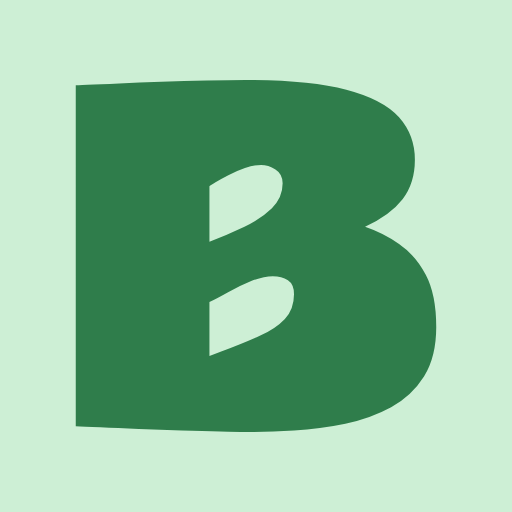
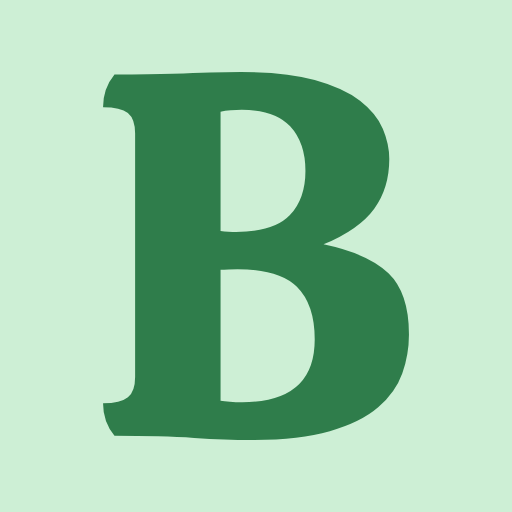
logomark

Changed region(s): [[0.125, 0.125, 0.875, 0.875], [0.4062, 0.5, 0.625, 0.8125], [0.4062, 0.1875, 0.625, 0.4688]]

diff --git a/src/lib/html.js b/src/lib/html.js
@@ -15,7 +15,7 @@ export function verseText(v) {
 }
 export const trLine = (v) => (site.redLetter && v.jesus ? `${TR} · <span class="rl-key">Words of Jesus in red</span>` : TR);
 
-export const MARK = `<svg class="brand__mark" viewBox="0 0 64 64" aria-hidden="true"><path d="M9.47 10.67Q9.47 10.67 10.96 10.60Q12.46 10.53 14.89 10.43Q17.33 10.32 20.19 10.23Q23.05 10.13 25.83 10.07Q28.62 10.00 30.73 10.00Q38.67 10.00 43.29 11.22Q47.90 12.43 49.88 14.67Q51.86 16.90 51.86 19.98Q51.86 22.92 50.32 24.91Q48.78 26.90 45.63 28.35Q47.85 29.10 49.88 30.49Q51.91 31.88 53.22 34.35Q54.53 36.83 54.53 40.89Q54.53 44.64 53.00 47.07Q51.46 49.51 48.89 50.91Q46.32 52.31 43.17 52.97Q40.01 53.63 36.75 53.81Q33.48 54.00 30.60 54.00Q29.66 54.00 27.53 53.95Q25.41 53.89 22.72 53.81Q20.03 53.73 17.36 53.63Q14.68 53.52 12.55 53.42Q10.43 53.33 9.47 53.28ZM26.18 30.22Q28.46 29.34 30.56 28.34Q32.66 27.33 33.99 26.02Q35.33 24.71 35.33 22.92Q35.33 21.74 34.43 21.18Q33.54 20.62 32.63 20.62Q31.72 20.62 30.62 21.01Q29.53 21.39 28.54 21.90Q27.55 22.41 26.89 22.81Q26.24 23.21 26.18 23.27ZM36.75 36.77Q36.75 35.54 35.99 35.04Q35.22 34.53 34.10 34.53Q32.90 34.53 31.40 35.14Q29.90 35.76 28.51 36.53Q27.12 37.31 26.18 37.76V44.50L27.57 43.97Q30.36 42.93 32.41 42.00Q34.47 41.08 35.61 39.86Q36.75 38.65 36.75 36.77Z" fill="currentColor"/></svg>`;
+export const MARK = `<svg class="brand__mark" viewBox="0 0 64 64" aria-hidden="true"><path d="M31.32 55.00Q28.28 55.00 24.27 54.74Q20.26 54.48 14.31 54.48Q12.88 52.74 12.88 50.41Q15.08 50.41 15.99 49.66Q16.89 48.92 16.89 47.11V16.70Q16.89 14.89 15.99 14.14Q15.08 13.40 12.88 13.40Q12.88 11.07 14.31 9.32Q18.90 9.32 21.62 9.23Q24.33 9.13 26.24 9.06Q28.15 9.00 30.09 9.00Q35.72 9.00 39.34 10.00Q42.97 11.01 45.00 12.59Q47.04 14.18 47.85 16.08Q48.66 17.99 48.66 19.87Q48.66 23.49 46.78 26.08Q44.91 28.67 40.44 30.54Q46.01 31.71 48.56 34.17Q51.12 36.63 51.12 41.80Q51.12 44.32 50.28 46.69Q49.44 49.05 47.27 50.92Q45.10 52.80 41.22 53.90Q37.34 55.00 31.32 55.00ZM29.51 28.99Q34.23 28.99 36.21 26.92Q38.18 24.85 38.18 21.36Q38.18 17.86 36.27 15.79Q34.36 13.72 30.22 13.72Q29.57 13.72 28.83 13.79Q28.09 13.85 27.57 13.98V28.86Q28.02 28.93 28.54 28.96Q29.06 28.99 29.51 28.99ZM30.29 50.28Q39.34 50.28 39.34 42.45Q39.34 38.05 37.11 35.85Q34.88 33.65 29.70 33.65Q29.19 33.65 28.57 33.68Q27.96 33.71 27.57 33.71V50.08Q28.02 50.15 28.73 50.21Q29.44 50.28 30.29 50.28Z" fill="currentColor"/></svg>`;
 
 const ARROW = `<svg class="arrow" width="18" height="18" viewBox="0 0 24 24" aria-hidden="true" fill="none" stroke="currentColor" stroke-width="2" stroke-linecap="round" stroke-linejoin="round"><path d="M5 12h14M13 6l6 6-6 6"/></svg>`;
 
@@ -70,8 +70,8 @@ const menuItems = [['/search/', 'Search'], ['/topics/', 'Topics'], ['/today/', '
 <meta name="twitter:description" content="${esc(page.description)}">
 <meta name="twitter:image" content="${site.url}${site.ogImage}">
 <meta name="twitter:image:alt" content="${esc(site.name)}: ${esc(site.tagline)}">
-<link rel="icon" href="/favicon.svg?v=3" type="image/svg+xml">
-<link rel="apple-touch-icon" sizes="180x180" href="/apple-touch-icon.png?v=3">
+<link rel="icon" href="/favicon.svg?v=6" type="image/svg+xml">
+<link rel="apple-touch-icon" sizes="180x180" href="/apple-touch-icon.png?v=6">
 <link rel="manifest" href="/site.webmanifest">
 <link rel="preload" href="/inter.woff2" as="font" type="font/woff2" crossorigin>
 <link rel="preload" href="/source-serif.woff2" as="font" type="font/woff2" crossorigin>

diff --git a/scripts/og-template.html b/scripts/og-template.html
@@ -8,5 +8,5 @@ body{margin:0;width:1200px;height:630px;background:#FFFFFF;font-family:Inter;pos
 h1{position:absolute;left:90px;top:236px;margin:0;font-family:SS;font-weight:450;font-size:70px;line-height:1.12;color:#182019;letter-spacing:-.01em}
 p{position:absolute;left:90px;top:432px;margin:0;font-size:31px;line-height:1.4;color:#59635B;width:960px}
 .u{position:absolute;left:90px;top:560px;font-size:26px;color:#8E9A90}
-</style></head><body><div class="bar"></div><svg class="mark" xmlns="http://www.w3.org/2000/svg" viewBox="0 0 64 64" width="104" height="104"><rect width="64" height="64" rx="22" fill="#CDEFD5"/><path d="M9.47 10.67Q9.47 10.67 10.96 10.60Q12.46 10.53 14.89 10.43Q17.33 10.32 20.19 10.23Q23.05 10.13 25.83 10.07Q28.62 10.00 30.73 10.00Q38.67 10.00 43.29 11.22Q47.90 12.43 49.88 14.67Q51.86 16.90 51.86 19.98Q51.86 22.92 50.32 24.91Q48.78 26.90 45.63 28.35Q47.85 29.10 49.88 30.49Q51.91 31.88 53.22 34.35Q54.53 36.83 54.53 40.89Q54.53 44.64 53.00 47.07Q51.46 49.51 48.89 50.91Q46.32 52.31 43.17 52.97Q40.01 53.63 36.75 53.81Q33.48 54.00 30.60 54.00Q29.66 54.00 27.53 53.95Q25.41 53.89 22.72 53.81Q20.03 53.73 17.36 53.63Q14.68 53.52 12.55 53.42Q10.43 53.33 9.47 53.28ZM26.18 30.22Q28.46 29.34 30.56 28.34Q32.66 27.33 33.99 26.02Q35.33 24.71 35.33 22.92Q35.33 21.74 34.43 21.18Q33.54 20.62 32.63 20.62Q31.72 20.62 30.62 21.01Q29.53 21.39 28.54 21.90Q27.55 22.41 26.89 22.81Q26.24 23.21 26.18 23.27ZM36.75 36.77Q36.75 35.54 35.99 35.04Q35.22 34.53 34.10 34.53Q32.90 34.53 31.40 35.14Q29.90 35.76 28.51 36.53Q27.12 37.31 26.18 37.76V44.50L27.57 43.97Q30.36 42.93 32.41 42.00Q34.47 41.08 35.61 39.86Q36.75 38.65 36.75 36.77Z" fill="#2F7D4B"/></svg><div class="name">Better Verses</div>
-<h1>Comfort someone<br>you care about.</h1><p>Sometimes that someone is you. Find the right Bible verse for the moment, with the context to use it well.</p><div class="u">betterverses.com</div></body></html>
+</style></head><body><div class="bar"></div><svg class="mark" xmlns="http://www.w3.org/2000/svg" viewBox="0 0 64 64" width="104" height="104"><rect width="64" height="64" rx="22" fill="#CDEFD5"/><path d="M31.32 55.00Q28.28 55.00 24.27 54.74Q20.26 54.48 14.31 54.48Q12.88 52.74 12.88 50.41Q15.08 50.41 15.99 49.66Q16.89 48.92 16.89 47.11V16.70Q16.89 14.89 15.99 14.14Q15.08 13.40 12.88 13.40Q12.88 11.07 14.31 9.32Q18.90 9.32 21.62 9.23Q24.33 9.13 26.24 9.06Q28.15 9.00 30.09 9.00Q35.72 9.00 39.34 10.00Q42.97 11.01 45.00 12.59Q47.04 14.18 47.85 16.08Q48.66 17.99 48.66 19.87Q48.66 23.49 46.78 26.08Q44.91 28.67 40.44 30.54Q46.01 31.71 48.56 34.17Q51.12 36.63 51.12 41.80Q51.12 44.32 50.28 46.69Q49.44 49.05 47.27 50.92Q45.10 52.80 41.22 53.90Q37.34 55.00 31.32 55.00ZM29.51 28.99Q34.23 28.99 36.21 26.92Q38.18 24.85 38.18 21.36Q38.18 17.86 36.27 15.79Q34.36 13.72 30.22 13.72Q29.57 13.72 28.83 13.79Q28.09 13.85 27.57 13.98V28.86Q28.02 28.93 28.54 28.96Q29.06 28.99 29.51 28.99ZM30.29 50.28Q39.34 50.28 39.34 42.45Q39.34 38.05 37.11 35.85Q34.88 33.65 29.70 33.65Q29.19 33.65 28.57 33.68Q27.96 33.71 27.57 33.71V50.08Q28.02 50.15 28.73 50.21Q29.44 50.28 30.29 50.28Z" fill="#2F7D4B"/></svg><div class="name">Better Verses</div>
+<h1>A little help finding<br>the right words.</h1><p>Find the right Bible verse to comfort someone you care about. Sometimes that someone is you.</p><div class="u">betterverses.com</div></body></html>

diff --git a/src/styles/main.css b/src/styles/main.css
@@ -100,8 +100,9 @@ button { font: inherit; color: inherit; }
 h1, h2, h3, h4 { line-height: 1.15; letter-spacing: -0.025em; margin: 0 0 .5rem; font-weight: 700; text-wrap: balance; }
 h1 { font-family: var(--font-verse); font-weight: 600; letter-spacing: -0.015em; line-height: 1.1; font-size: clamp(2.1rem, 1.5rem + 2.8vw, 3.1rem); }
 h1 .em { color: var(--primary); font-style: normal; }
-.hero h1 { max-width: 22ch; text-wrap: balance; }
-h2 { font-size: 1.45rem; letter-spacing: -0.02em; margin-top: 2.25rem; }
+.hero h1 { max-width: 22ch; text-wrap: balance; font-size: clamp(2.3rem, 1.6rem + 3vw, 4rem); margin-bottom: 1rem; }
+.hero .hero__dek { font-size: clamp(1.05rem, .95rem + .6vw, 1.3rem); max-width: 40ch; }
+h2 { font-size: clamp(1.45rem, 1.2rem + 1vw, 2.1rem); letter-spacing: -0.02em; margin-top: 2.25rem; }
 h3 { font-size: 1.1rem; letter-spacing: -0.01em; margin-top: 1.5rem; font-weight: 600; }
 p { margin: 0 0 1rem; }
 p:last-child { margin-bottom: 0; }
@@ -144,7 +145,7 @@ main { padding: 1.5rem 0 4rem; }
 .finder { display: grid; gap: .75rem; }
 .field { position: relative; }
 .field input {
-  width: 100%; font: inherit; font-size: 1.05rem; font-weight: 500; color: var(--ink);
+  width: 100%; font: inherit; font-size: clamp(1.05rem, .95rem + .5vw, 1.3rem); font-weight: 500; color: var(--ink);
   background: var(--bg-2); border: 1.5px solid var(--line); border-radius: var(--r-search);
   padding: .95rem 1.1rem; min-height: 56px; -webkit-appearance: none; appearance: none;
   transition: border-color var(--dur) var(--ease), background var(--dur) var(--ease);
@@ -431,7 +432,8 @@ main { padding: 1.5rem 0 4rem; }
 .guide__why a { white-space: nowrap; }
 .btn-row { display: flex; flex-wrap: wrap; gap: .6rem; margin-top: 1.5rem; }
 
-.hero__line { display: block; color: var(--ink); font-weight: 600; margin-bottom: .35rem; }
+.hero__sub { font-size: clamp(1.2rem, 1rem + .9vw, 1.6rem); font-weight: 600; line-height: 1.3; color: var(--ink); margin: 0 0 .35rem; letter-spacing: -.01em; max-width: 30ch; }
+.hero__line { font-family: var(--font-verse); font-size: clamp(1.15rem, 1rem + .8vw, 1.45rem); color: var(--primary-ink); margin: 0 0 .9rem; }
 
 .newsletter { background: var(--surface-high); border-radius: var(--r-lg); padding: 1.35rem 1.35rem 1.5rem; }
 .newsletter h2 { margin-top: 0; }
@@ -454,3 +456,6 @@ main { padding: 1.5rem 0 4rem; }
 .signup input:focus { border-color: var(--primary); outline: none; box-shadow: 0 0 0 3px color-mix(in srgb, var(--primary) 20%, transparent); }
 .signup .btn { flex: 1 1 220px; min-height: 54px; }
 .newsletter .fine { margin-top: .5rem; }
+
+.hero__br { display: none; }
+@media (min-width: 560px) { .hero__br { display: inline; } .hero h1 { text-wrap: initial; } }

diff --git a/src/lib/pages.js b/src/lib/pages.js
@@ -57,8 +57,10 @@ export function home(ctx) {
   const d = daily.entry;
   const body = `
 <section class="hero" aria-labelledby="h-find">
-  <h1 id="h-find">Comfort <em class="em">someone you care about</em> with the right Bible verse.</h1>
-  <p class="hero__dek"><strong class="hero__line">Sometimes that someone is you.</strong> A friend in grief, a parent before surgery, a coworker starting over, a night you can’t sleep. Search the whole Bible in plain English, or start from the moment they’re in.</p>
+  <h1 id="h-find">A little help finding<br class="hero__br"> <em class="em">the right words.</em></h1>
+  <p class="hero__sub">Find the right Bible verse to comfort someone you care about.</p>
+  <p class="hero__line">Sometimes that someone is you.</p>
+  <p class="hero__dek">Grief, surgery, starting over, or a night you can’t sleep. Search the Bible in plain English, or start with the moment you’re in.</p>
   ${searchBox()}
 </section>
 
@@ -92,7 +94,7 @@ ${newsletterBlock()}
   <a href="/what-we-believe/">What I believe</a> · <a href="/how-to-read-a-verse/">How to read a verse before you send it</a>
 </section>
 ${adSlot('inline')}`;
-  return layout({ path: '/', finder: true, search: true, fullTitle: `${site.name} — ${site.tagline.replace(/\.$/, '')}`, title: site.name, description: site.defaultDescription, body, ld: [siteLd(), orgLd()] });
+  return layout({ path: '/', wide: true, finder: true, search: true, fullTitle: `${site.name} — ${site.tagline.replace(/\.$/, '')}`, title: site.name, description: site.defaultDescription, body, ld: [siteLd(), orgLd()] });
 }
 
 // ---------- Search page (same widget; canonical home for shared search links) ----------
@@ -116,7 +118,7 @@ ${searchBox()}
     <li><strong>The person and the moment</strong>: <em>a friend who is grieving</em>, <em>my dad before surgery</em>, <em>starting over</em>. If I have a hand-picked page for it, it appears above the results.</li>
   </ul>
 </section>`;
-  return layout({ path: '/search/', title: 'Search the Bible', description: 'Search every verse of the Bible in plain English: the person and the moment, a phrase you half remember, a topic, or a reference. Results explain why they matched. Runs in your browser.', body, finder: true, search: true, canonical: '/search/' });
+  return layout({ path: '/search/', title: 'Search the Bible', description: 'Search every verse of the Bible in plain English: the person and the moment, a phrase you half remember, a topic, or a reference. Results explain why they matched. Runs in your browser.', body, wide: true, finder: true, search: true, canonical: '/search/' });
 }
 
 // ---------- Topic hub ----------

diff --git a/README.md b/README.md
@@ -164,7 +164,7 @@ Mobile first, ~544px interactive width, ~704px reading width, Inter 17px for the
 
 ## Logo
 
-The mark is the letter B from Rammetto One (SIL Open Font License), converted to an outline so no font file is needed to display it. It's inline in the header (`MARK` in `src/lib/html.js`, colored by `currentColor`), and `public/favicon.svg`, `public/logo.svg`, `apple-touch-icon.png` and `og-default.png` all use the same path. `scripts/og-template.html` is the social-card layout; render it at 1200×630 to regenerate the PNG.
+The mark is the letter B from Calistoga (SIL Open Font License), converted to an outline so no font file loads. It's inline in the header (`MARK` in `src/lib/html.js`, colored by `currentColor`), and `public/favicon.svg`, `public/logo.svg`, the home-screen icons and `og-default.png` use the same path. `scripts/og-template.html` is the social-card layout; render it at 1200×630 to regenerate the PNG.
 
 ## Newsletter (Kit)
 
